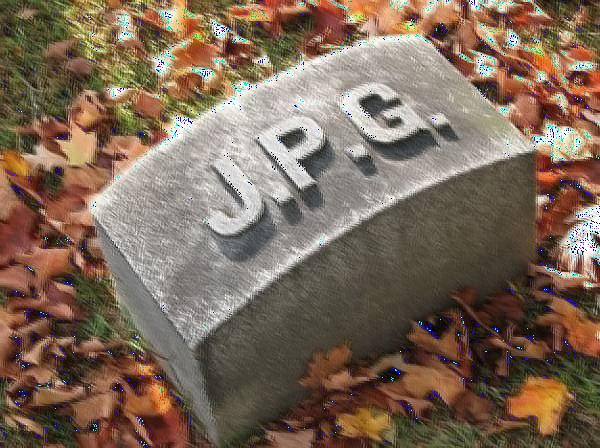
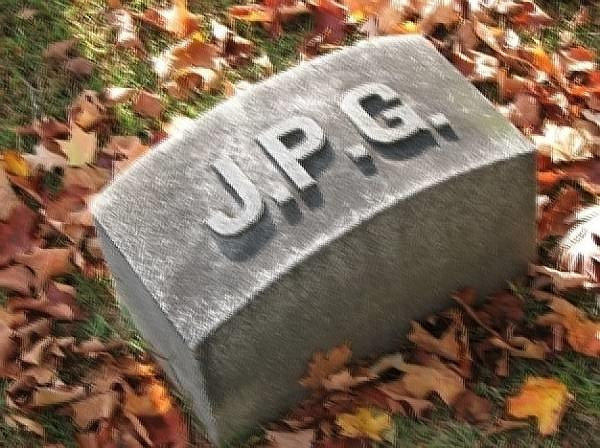
convolve2d: now using edge mode in padding, rgb_filter decorator now uses clipping to prevent values below 0 and above 255

diff --git a/Filters.py b/Filters.py
@@ -10,18 +10,36 @@ import numpy as np
 
 
 def rgb_filter(func):
-    """Decorator: convert a grayscale filter into an RGB filter."""
+    """Decorator: convert a grayscale filter into an RGB filter
+    and clamp final results to valid uint8 range.
+    """
 
     def wrapper(image, *args, **kwargs):
+        # Grayscale → apply filter, clip, convert
         if image.ndim == 2:
-            return func(image, *args, **kwargs)
+            result = func(image, *args, **kwargs)
 
-        out = np.zeros_like(image)
+            # Sobel already returns uint8 → leave it
+            if result.dtype == np.uint8:
+                return result
+
+            return np.clip(result, 0, 255).astype(np.uint8)
+
+        # RGB → apply filter per channel
+        out = np.zeros_like(image, dtype=np.float32)
+
         for c in range(3):
-            out[:, :, c] = func(image[:, :, c], *args, **kwargs)
-        return out
+            channel_result = func(image[:, :, c], *args, **kwargs)
+
+            if channel_result.dtype == np.uint8:
+                out[:, :, c] = channel_result
+            else:
+                out[:, :, c] = np.clip(channel_result, 0, 255)
+
+        return out.astype(np.uint8)
 
     return wrapper
+
 
 
 def convolve2d(image: np.ndarray, kernel: np.ndarray) -> np.ndarray:
